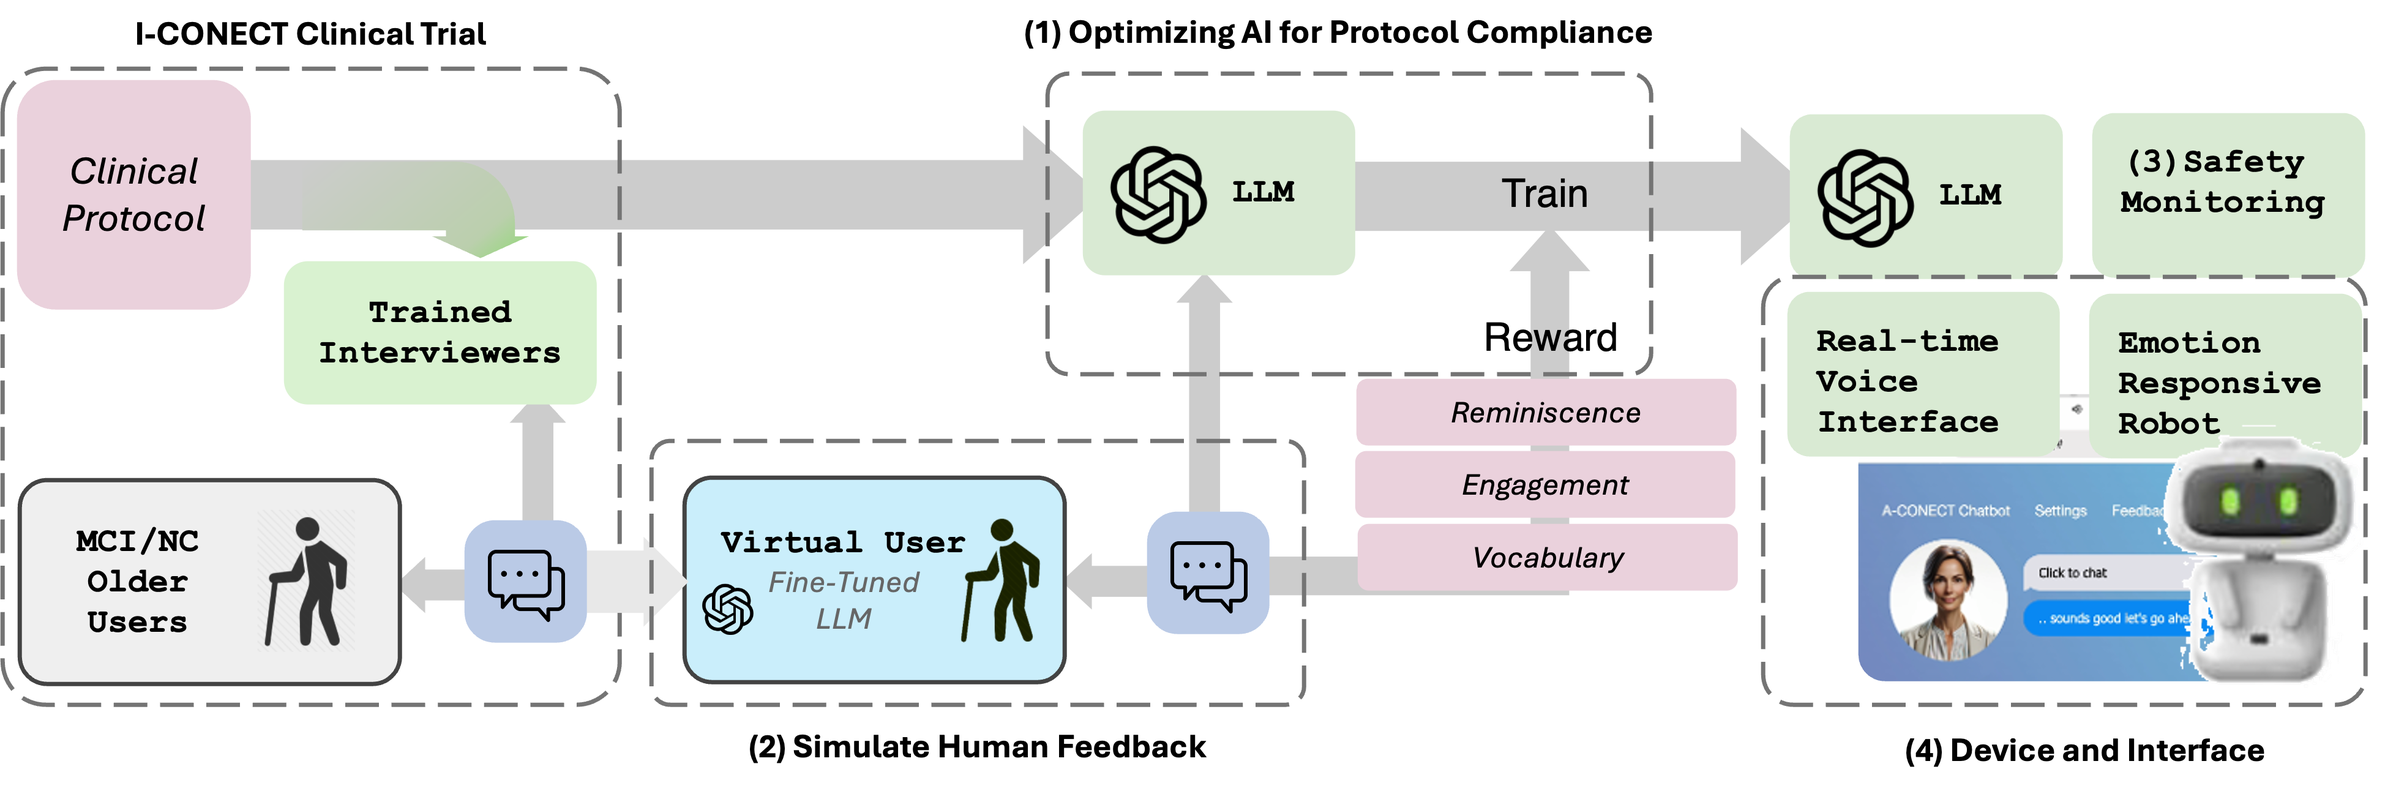
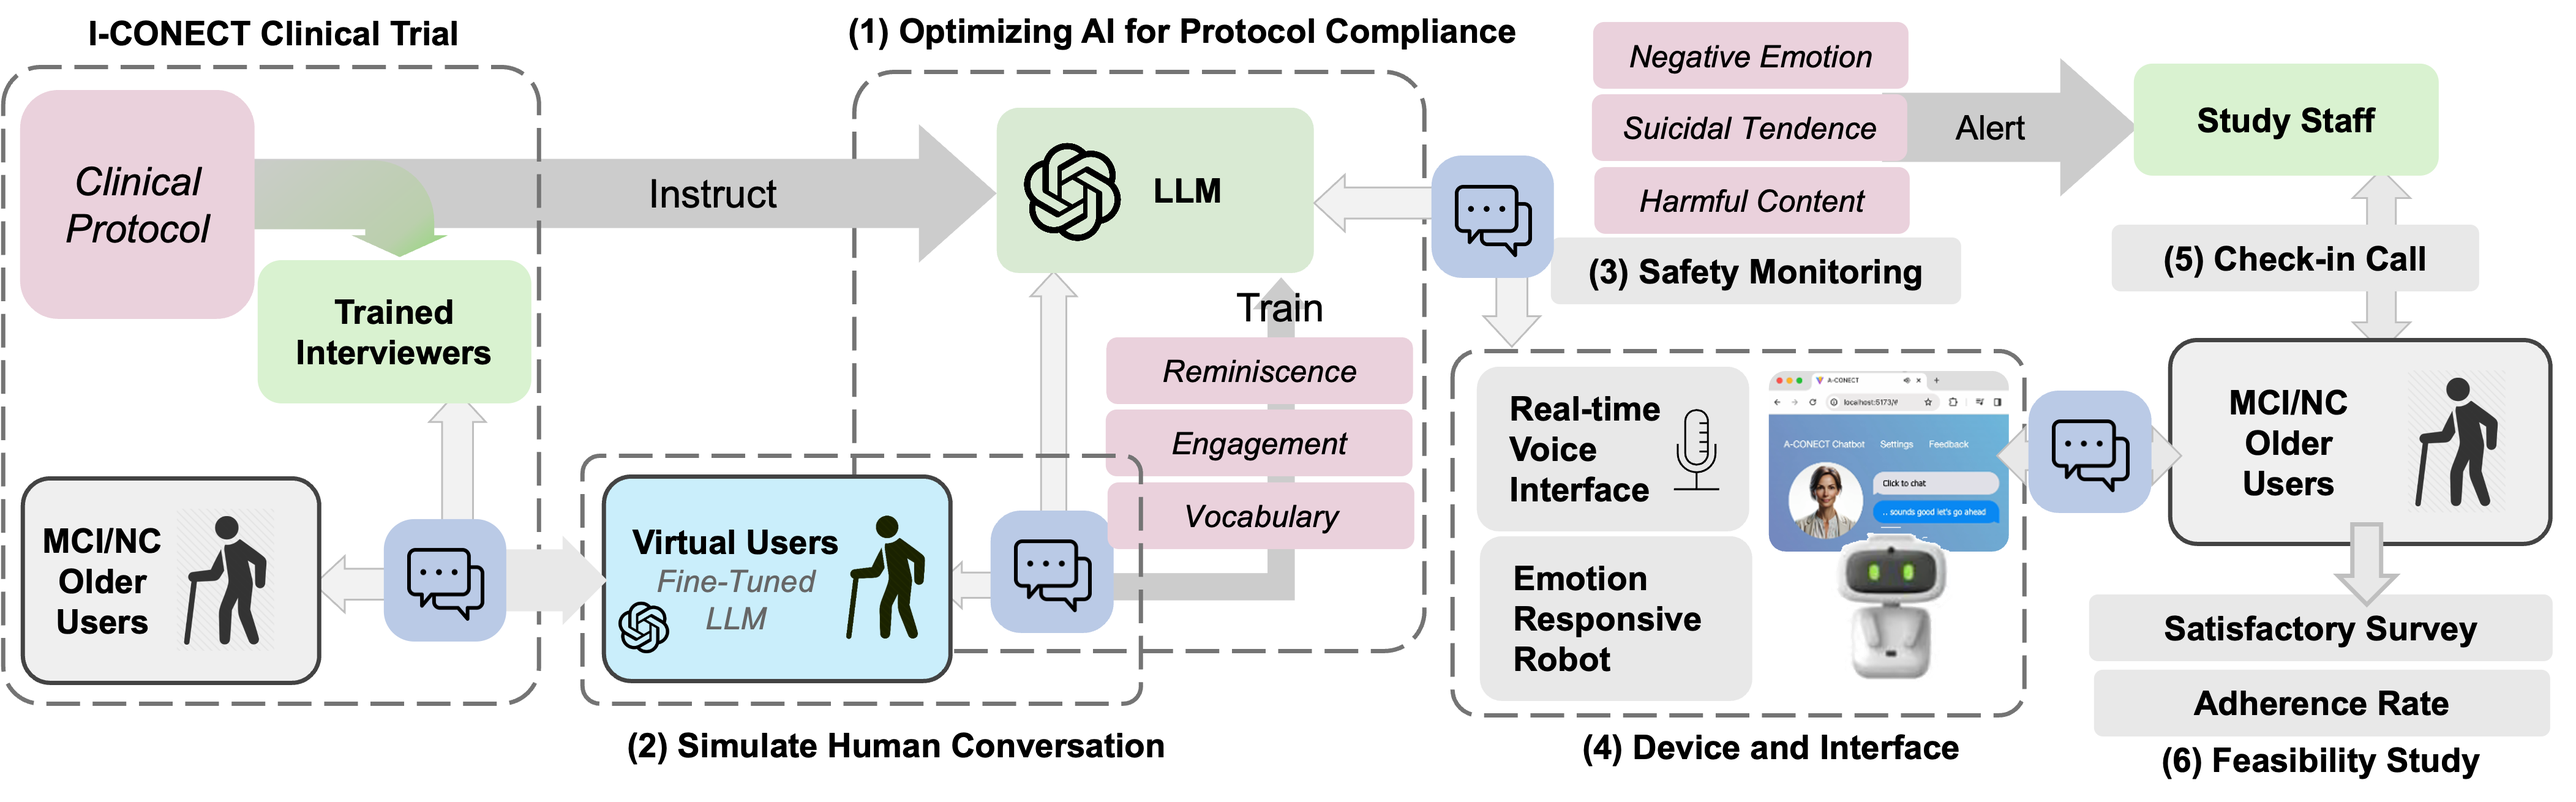
Add figures.

diff --git a/sec/main.tex b/sec/main.tex
@@ -45,8 +45,7 @@ surveys to assess feasibility, acceptability, and safety. (i)
 participants who complete $\geq$80\% of sessions, and an engagement
 measure (participant word ratio). (ii) \textbf{Acceptability}. Each
 participant will complete a survey after 6 weeks that assesses
-satisfaction, willingness to use the device in the future, perceived
-empathy, and preferences for interaction modality. \comm{to align with approach and data analysis.}
+satisfaction with the whole program, willingness to use the device in the future, and preferences for interaction modality or other system features.
 
 \textbf{Impact}. Our team is highly interdisciplinary, comprising
 computer scientists, a neurologist, and a statistician in study design and
@@ -232,8 +231,8 @@ subjective surveys to assess the feasibility and satisfaction.
 
 To isolate the effects of social engagement from confounding factors, the study incorporates three key design elements. (1) First, we employ chatbot persona rotation across participants to enhance interaction variability and minimize emotional bonding confounds, with personas drawn from a pool based on I-CONECT interviewer profiles. (2) Second, our intuitive interface and natural-sounding voice capabilities enable participants lacking internet or webcam proficiency to participate in conversations without additional cognitive burden from technology learning. (3) Third, we leverage the standardized daily themes and image stimuli from I-CONECT to support participants in organizing and expressing their ideas within conversations\cite{dodge2024internet}.
 
-\comm{Add details about survey. }
-\comm{Example: Do you change your perception about using AI. Perecentage of attrition..}
+% \comm{Add details about survey. }
+% \comm{Example: Do you change your perception about using AI. Perecentage of attrition..}
 
 \textbf{Participant Recruitment}. We will recruit a total of \textbf{40
 socially isolated older adults aged $\geq75$ years} from the MGH Memory
@@ -251,9 +250,7 @@ balanced groups: \textbf{20 individuals with mild cognitive impairment
 and optimize the chatbot design for better implementation of the
 I-CONECT protocol.
 
-\textbf{Method: Processing I-CONECT Data and Constructing Virtual Users.} We will use the existing I-CONECT audiovisual corpus of older
-adult interviews (with and without mild cognitive impairment, MCI) to
-design and optimize the AIMI-CONECT chatbot. All data will be processed on
+\textbf{Method: Processing I-CONECT Data and Constructing Virtual Users.} We will use the recorded I-CONECT audio conversations to build virtual users of the corresponding participants. All data will be processed on
 HIPAA-compliant servers with identifiers removed.
 
 The whole process include these steps:
